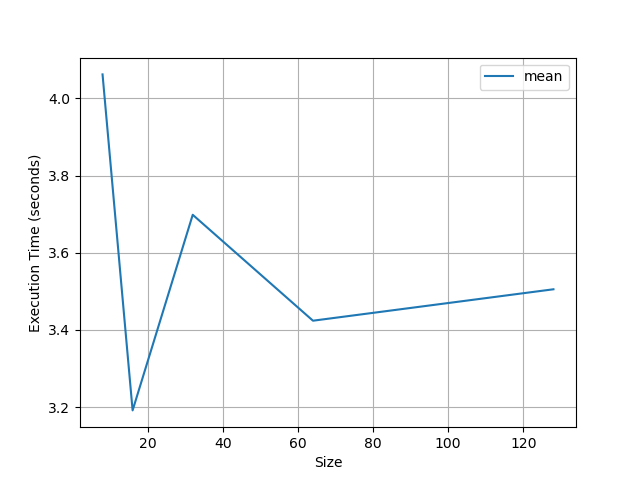
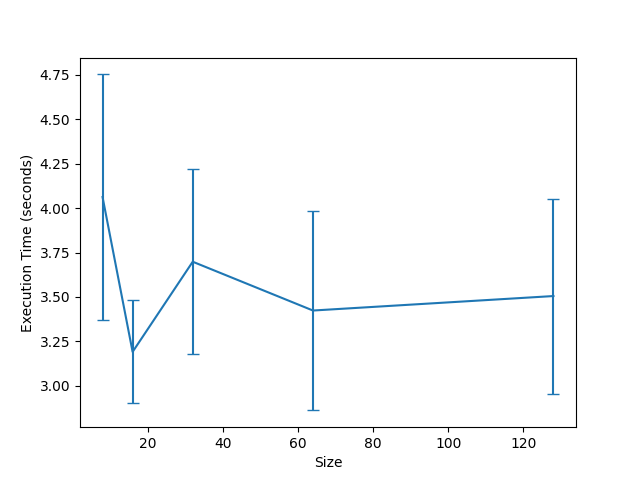
added errorbars

diff --git a/script/ld_plot_result.py b/script/ld_plot_result.py
@@ -31,16 +31,16 @@ def main():
     args = parser.parse_args()
 
     df = pd.read_csv(args.file_name)
-    print (df)
     means, error = get_mean_and_ebars(df, ["size"], "time")
 
+    fig,ax = plt.subplots()
 
-    ax = means.plot(yerr=error, grid=True)
+    ax.errorbar(means.index, means["mean"],yerr=error["error"], capsize=4)
+    #means.plot(ax=ax, yerr=error, grid=True, rot=0, capsize=4)
     ax.set_xlabel("Size")
     ax.set_ylabel("Execution Time (seconds)")
+    print(error)
 
-
-    fig = ax.get_figure()
     fig.savefig("ld_results.png")
 
 #    plt.plot(sizes, execution_times, marker="o")
